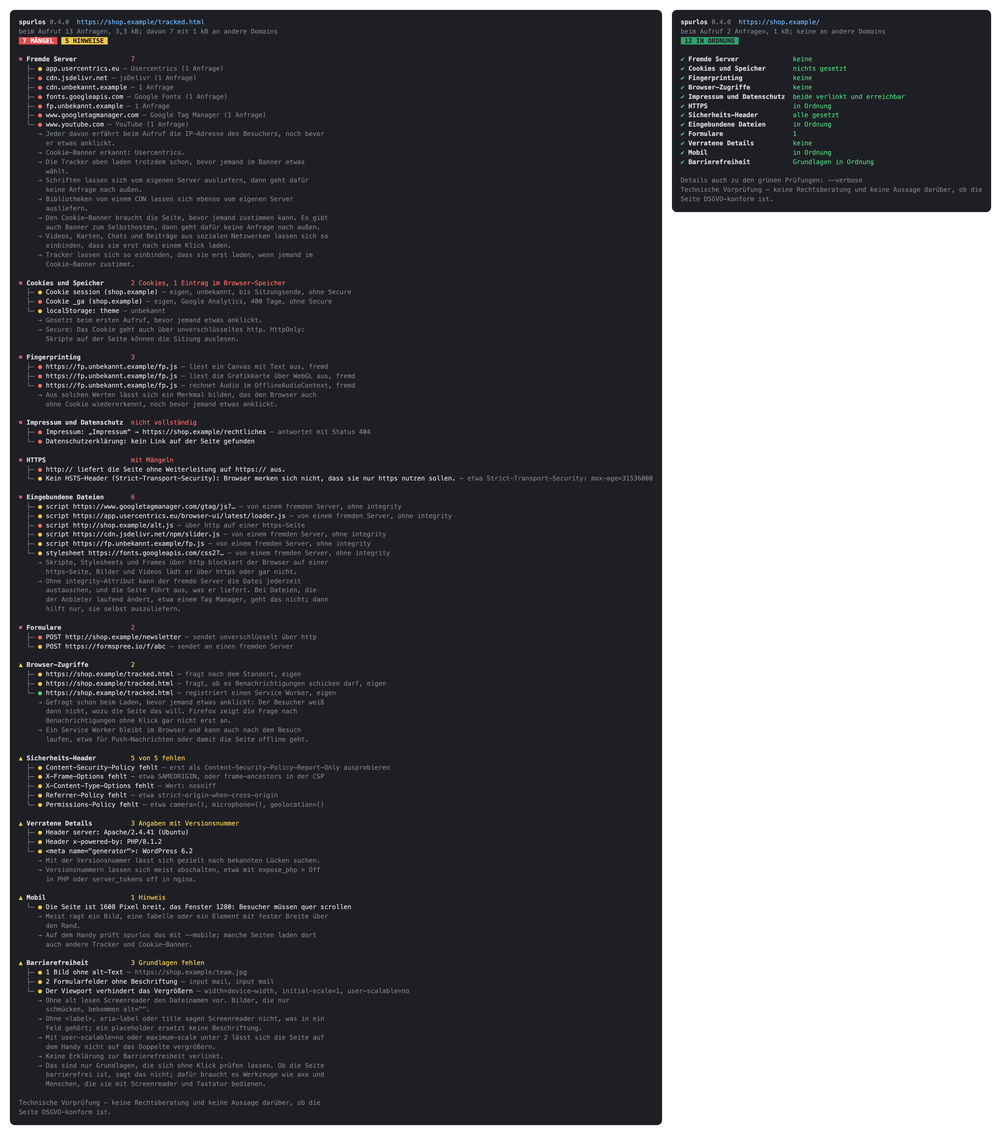
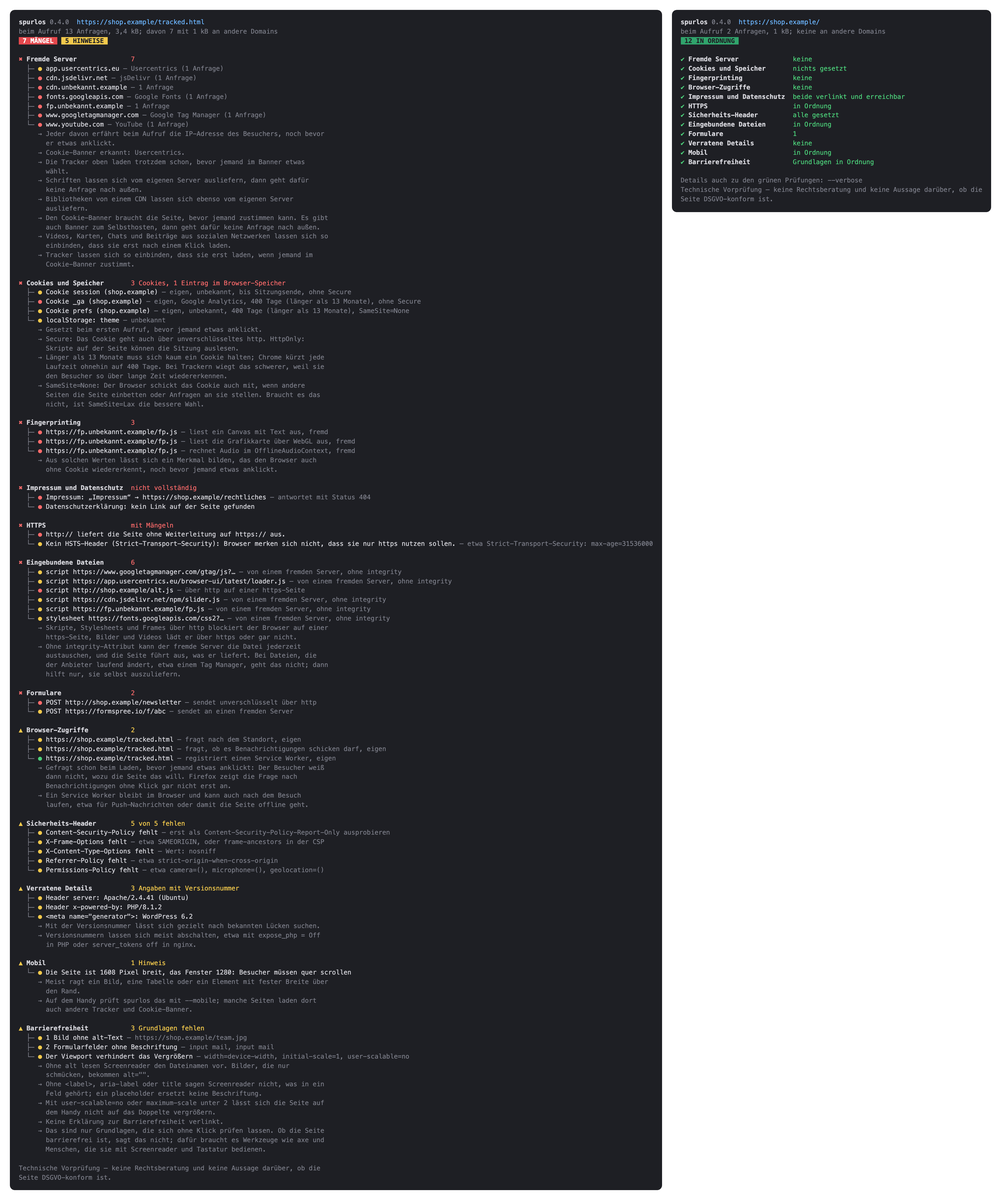
Cookies: länger als 13 Monate gültig ist mindestens gelb; SameSite=None bei eigenen Cookies im Bericht genannt, ohne die Ampel zu ändern; sameSite und long in --json

Changed region(s): [[0.0311, 0.0, 0.4042, 0.9965], [0.653, 0.0, 0.9951, 0.1868], [0.8707, 0.0623, 0.9018, 0.0934]]

diff --git a/examples/mit-maengeln.html b/examples/mit-maengeln.html
@@ -50,8 +50,8 @@ footer { margin-top: 28px; padding-top: 12px; border-top: 1px solid var(--line);
 <div class="top">
 <div>
 <h1>https://shop.example/tracked.html</h1>
-<p class="meta">geprüft am 22. November 2026 um 11:31 MEZ</p>
-<p class="meta">beim Aufruf 13 Anfragen, 3,3 kB; davon 7 mit 1 kB an andere Domains</p>
+<p class="meta">geprüft am 22. November 2026 um 11:35 MEZ</p>
+<p class="meta">beim Aufruf 13 Anfragen, 3,4 kB; davon 7 mit 1 kB an andere Domains</p>
 </div>
 <p class="brand"><svg class="logo light" xmlns="http://www.w3.org/2000/svg" viewBox="0 0 5255.92 1056" role="img" aria-label="spurlos"><title>spurlos</title><g transform="translate(-60.71 -70.67) scale(18.14)"><circle cx="28" cy="28" r="20" fill="none" stroke="#1e1f24" stroke-width="5.5"/><line x1="42.5" y1="42.5" x2="57" y2="57" stroke="#1e1f24" stroke-width="8" stroke-linecap="round"/><circle cx="17.5" cy="28" r="4.6" fill="#e5484d"/><circle cx="28" cy="28" r="4.6" fill="#e0a800"/><circle cx="38.5" cy="28" r="4.6" fill="#1f9d55"/></g><path transform="translate(1195.92 846)" fill="#1e1f24" d="M277 10Q209 10 158 -11.5Q107 -33 78.5 -71Q50 -109 50 -160L200 -160Q200 -136 221.5 -121.5Q243 -107 277 -107L321 -107Q362 -107 383.5 -122Q405 -137 405 -164Q405 -189 386 -202.5Q367 -216 327 -221L263 -229Q160 -242 113 -279Q66 -316 66 -392Q66 -472 121 -516Q176 -560 282 -560L320 -560Q421 -560 481 -516Q541 -472 541 -398L391 -398Q391 -418 371.5 -430.5Q352 -443 320 -443L282 -443Q245 -443 228 -430.5Q211 -418 211 -393Q211 -370 226.5 -358Q242 -346 276 -341L345 -332Q449 -319 499.5 -280Q550 -241 550 -164Q550 -80 492 -35Q434 10 321 10ZM646 180L646 -550L791 -550L791 -445L794 -445Q801 -491 830 -521Q869 -560 937 -560Q1020 -560 1070 -501.5Q1120 -443 1120 -345L1120 -205Q1120 -140 1097.5 -91.5Q1075 -43 1034 -16.5Q993 10 937 10Q869 10 830 -30Q801 -59 794 -105L791 -105L796 30L796 180ZM883 -120Q925 -120 947.5 -143.5Q970 -167 970 -210L970 -340Q970 -384 947.5 -407Q925 -430 883 -430Q842 -430 819 -406.5Q796 -383 796 -340L796 -210Q796 -167 819 -143.5Q842 -120 883 -120ZM1460 10Q1349 10 1286.5 -50Q1224 -110 1224 -214L1224 -550L1374 -550L1374 -215Q1374 -169 1396 -144.5Q1418 -120 1460 -120Q1501 -120 1523.5 -144.5Q1546 -169 1546 -215L1546 -550L1696 -550L1696 -214Q1696 -109 1633 -49.5Q1570 10 1460 10ZM1822 0L1822 -550L1962 -550L1962 -445L1964 -445Q1973 -488 1998 -515Q2039 -560 2118 -560Q2209 -560 2259.5 -505Q2310 -450 2310 -350L2310 -305L2150 -305L2150 -340Q2150 -385 2125.5 -410Q2101 -435 2060 -435Q2017 -435 1994.5 -410Q1972 -385 1972 -340L1972 0ZM2710 0Q2652 0 2608 -24.5Q2564 -49 2539.5 -93Q2515 -137 2515 -195L2515 -595L2345 -595L2345 -730L2665 -730L2665 -195Q2665 -168 2681.5 -151.5Q2698 -135 2725 -135L2885 -135L2885 0ZM3200 10Q3127 10 3073 -17.5Q3019 -45 2989.5 -94.5Q2960 -144 2960 -210L2960 -340Q2960 -406 2989.5 -455.5Q3019 -505 3073 -532.5Q3127 -560 3200 -560Q3274 -560 3327.5 -532.5Q3381 -505 3410.5 -455.5Q3440 -406 3440 -340L3440 -210Q3440 -144 3410.5 -94.5Q3381 -45 3327.5 -17.5Q3274 10 3200 10ZM3200 -120Q3244 -120 3267 -143.5Q3290 -167 3290 -210L3290 -340Q3290 -384 3267 -407Q3244 -430 3200 -430Q3157 -430 3133.5 -407Q3110 -384 3110 -340L3110 -210Q3110 -167 3133.5 -143.5Q3157 -120 3200 -120ZM3757 10Q3689 10 3638 -11.5Q3587 -33 3558.5 -71Q3530 -109 3530 -160L3680 -160Q3680 -136 3701.5 -121.5Q3723 -107 3757 -107L3801 -107Q3842 -107 3863.5 -122Q3885 -137 3885 -164Q3885 -189 3866 -202.5Q3847 -216 3807 -221L3743 -229Q3640 -242 3593 -279Q3546 -316 3546 -392Q3546 -472 3601 -516Q3656 -560 3762 -560L3800 -560Q3901 -560 3961 -516Q4021 -472 4021 -398L3871 -398Q3871 -418 3851.5 -430.5Q3832 -443 3800 -443L3762 -443Q3725 -443 3708 -430.5Q3691 -418 3691 -393Q3691 -370 3706.5 -358Q3722 -346 3756 -341L3825 -332Q3929 -319 3979.5 -280Q4030 -241 4030 -164Q4030 -80 3972 -35Q3914 10 3801 10Z"/></svg>
 <svg class="logo dark" xmlns="http://www.w3.org/2000/svg" viewBox="0 0 5255.92 1056" role="img" aria-label="spurlos"><title>spurlos</title><g transform="translate(-60.71 -70.67) scale(18.14)"><circle cx="28" cy="28" r="20" fill="none" stroke="#e9e9ee" stroke-width="5.5"/><line x1="42.5" y1="42.5" x2="57" y2="57" stroke="#e9e9ee" stroke-width="8" stroke-linecap="round"/><circle cx="17.5" cy="28" r="4.6" fill="#ff6b6b"/><circle cx="28" cy="28" r="4.6" fill="#f2c94c"/><circle cx="38.5" cy="28" r="4.6" fill="#4cd17a"/></g><path transform="translate(1195.92 846)" fill="#e9e9ee" d="M277 10Q209 10 158 -11.5Q107 -33 78.5 -71Q50 -109 50 -160L200 -160Q200 -136 221.5 -121.5Q243 -107 277 -107L321 -107Q362 -107 383.5 -122Q405 -137 405 -164Q405 -189 386 -202.5Q367 -216 327 -221L263 -229Q160 -242 113 -279Q66 -316 66 -392Q66 -472 121 -516Q176 -560 282 -560L320 -560Q421 -560 481 -516Q541 -472 541 -398L391 -398Q391 -418 371.5 -430.5Q352 -443 320 -443L282 -443Q245 -443 228 -430.5Q211 -418 211 -393Q211 -370 226.5 -358Q242 -346 276 -341L345 -332Q449 -319 499.5 -280Q550 -241 550 -164Q550 -80 492 -35Q434 10 321 10ZM646 180L646 -550L791 -550L791 -445L794 -445Q801 -491 830 -521Q869 -560 937 -560Q1020 -560 1070 -501.5Q1120 -443 1120 -345L1120 -205Q1120 -140 1097.5 -91.5Q1075 -43 1034 -16.5Q993 10 937 10Q869 10 830 -30Q801 -59 794 -105L791 -105L796 30L796 180ZM883 -120Q925 -120 947.5 -143.5Q970 -167 970 -210L970 -340Q970 -384 947.5 -407Q925 -430 883 -430Q842 -430 819 -406.5Q796 -383 796 -340L796 -210Q796 -167 819 -143.5Q842 -120 883 -120ZM1460 10Q1349 10 1286.5 -50Q1224 -110 1224 -214L1224 -550L1374 -550L1374 -215Q1374 -169 1396 -144.5Q1418 -120 1460 -120Q1501 -120 1523.5 -144.5Q1546 -169 1546 -215L1546 -550L1696 -550L1696 -214Q1696 -109 1633 -49.5Q1570 10 1460 10ZM1822 0L1822 -550L1962 -550L1962 -445L1964 -445Q1973 -488 1998 -515Q2039 -560 2118 -560Q2209 -560 2259.5 -505Q2310 -450 2310 -350L2310 -305L2150 -305L2150 -340Q2150 -385 2125.5 -410Q2101 -435 2060 -435Q2017 -435 1994.5 -410Q1972 -385 1972 -340L1972 0ZM2710 0Q2652 0 2608 -24.5Q2564 -49 2539.5 -93Q2515 -137 2515 -195L2515 -595L2345 -595L2345 -730L2665 -730L2665 -195Q2665 -168 2681.5 -151.5Q2698 -135 2725 -135L2885 -135L2885 0ZM3200 10Q3127 10 3073 -17.5Q3019 -45 2989.5 -94.5Q2960 -144 2960 -210L2960 -340Q2960 -406 2989.5 -455.5Q3019 -505 3073 -532.5Q3127 -560 3200 -560Q3274 -560 3327.5 -532.5Q3381 -505 3410.5 -455.5Q3440 -406 3440 -340L3440 -210Q3440 -144 3410.5 -94.5Q3381 -45 3327.5 -17.5Q3274 10 3200 10ZM3200 -120Q3244 -120 3267 -143.5Q3290 -167 3290 -210L3290 -340Q3290 -384 3267 -407Q3244 -430 3200 -430Q3157 -430 3133.5 -407Q3110 -384 3110 -340L3110 -210Q3110 -167 3133.5 -143.5Q3157 -120 3200 -120ZM3757 10Q3689 10 3638 -11.5Q3587 -33 3558.5 -71Q3530 -109 3530 -160L3680 -160Q3680 -136 3701.5 -121.5Q3723 -107 3757 -107L3801 -107Q3842 -107 3863.5 -122Q3885 -137 3885 -164Q3885 -189 3866 -202.5Q3847 -216 3807 -221L3743 -229Q3640 -242 3593 -279Q3546 -316 3546 -392Q3546 -472 3601 -516Q3656 -560 3762 -560L3800 -560Q3901 -560 3961 -516Q4021 -472 4021 -398L3871 -398Q3871 -418 3851.5 -430.5Q3832 -443 3800 -443L3762 -443Q3725 -443 3708 -430.5Q3691 -418 3691 -393Q3691 -370 3706.5 -358Q3722 -346 3756 -341L3825 -332Q3929 -319 3979.5 -280Q4030 -241 4030 -164Q4030 -80 3972 -35Q3914 10 3801 10Z"/></svg>
@@ -60,7 +60,7 @@ footer { margin-top: 28px; padding-top: 12px; border-top: 1px solid var(--line);
 <p class="summary"><span class="badge red">7 Mängel</span> <span class="badge yellow">5 Hinweise</span></p>
 </header>
 <details class="check red" open><summary class="head"><span class="mark">✖</span><span class="title">Fremde Server</span><span class="value">7</span></summary><ul><li class="yellow">app.usercentrics.eu<span class="detail"> – Usercentrics (1 Anfrage)</span></li><li class="red">cdn.jsdelivr.net<span class="detail"> – jsDelivr (1 Anfrage)</span></li><li class="red">cdn.unbekannt.example<span class="detail"> – 1 Anfrage</span></li><li class="red">fonts.googleapis.com<span class="detail"> – Google Fonts (1 Anfrage)</span></li><li class="red">fp.unbekannt.example<span class="detail"> – 1 Anfrage</span></li><li class="red">www.googletagmanager.com<span class="detail"> – Google Tag Manager (1 Anfrage)</span></li><li class="red">www.youtube.com<span class="detail"> – YouTube (1 Anfrage)</span></li></ul><p class="note">Jeder davon erfährt beim Aufruf die IP-Adresse des Besuchers, noch bevor er etwas anklickt.</p><p class="note">Cookie-Banner erkannt: Usercentrics.</p><p class="note">Die Tracker oben laden trotzdem schon, bevor jemand im Banner etwas wählt.</p><p class="note">Schriften lassen sich vom eigenen Server ausliefern, dann geht dafür keine Anfrage nach außen.</p><p class="note">Bibliotheken von einem CDN lassen sich ebenso vom eigenen Server ausliefern.</p><p class="note">Den Cookie-Banner braucht die Seite, bevor jemand zustimmen kann. Es gibt auch Banner zum Selbsthosten, dann geht dafür keine Anfrage nach außen.</p><p class="note">Videos, Karten, Chats und Beiträge aus sozialen Netzwerken lassen sich so einbinden, dass sie erst nach einem Klick laden.</p><p class="note">Tracker lassen sich so einbinden, dass sie erst laden, wenn jemand im Cookie-Banner zustimmt.</p></details>
-<details class="check red" open><summary class="head"><span class="mark">✖</span><span class="title">Cookies und Speicher</span><span class="value">2 Cookies, 1 Eintrag im Browser-Speicher</span></summary><ul><li class="yellow">Cookie session (shop.example)<span class="detail"> – eigen, unbekannt, bis Sitzungsende, ohne Secure</span></li><li class="red">Cookie _ga (shop.example)<span class="detail"> – eigen, Google Analytics, 400 Tage, ohne Secure</span></li><li class="yellow">localStorage: theme<span class="detail"> – unbekannt</span></li></ul><p class="note">Gesetzt beim ersten Aufruf, bevor jemand etwas anklickt.</p><p class="note">Secure: Das Cookie geht auch über unverschlüsseltes http. HttpOnly: Skripte auf der Seite können die Sitzung auslesen.</p></details>
+<details class="check red" open><summary class="head"><span class="mark">✖</span><span class="title">Cookies und Speicher</span><span class="value">3 Cookies, 1 Eintrag im Browser-Speicher</span></summary><ul><li class="yellow">Cookie session (shop.example)<span class="detail"> – eigen, unbekannt, bis Sitzungsende, ohne Secure</span></li><li class="red">Cookie _ga (shop.example)<span class="detail"> – eigen, Google Analytics, 400 Tage (länger als 13 Monate), ohne Secure</span></li><li class="yellow">Cookie prefs (shop.example)<span class="detail"> – eigen, unbekannt, 400 Tage (länger als 13 Monate), SameSite=None</span></li><li class="yellow">localStorage: theme<span class="detail"> – unbekannt</span></li></ul><p class="note">Gesetzt beim ersten Aufruf, bevor jemand etwas anklickt.</p><p class="note">Secure: Das Cookie geht auch über unverschlüsseltes http. HttpOnly: Skripte auf der Seite können die Sitzung auslesen.</p><p class="note">Länger als 13 Monate muss sich kaum ein Cookie halten; Chrome kürzt jede Laufzeit ohnehin auf 400 Tage. Bei Trackern wiegt das schwerer, weil sie den Besucher so über lange Zeit wiedererkennen.</p><p class="note">SameSite=None: Der Browser schickt das Cookie auch mit, wenn andere Seiten die Seite einbetten oder Anfragen an sie stellen. Braucht es das nicht, ist SameSite=Lax die bessere Wahl.</p></details>
 <details class="check red" open><summary class="head"><span class="mark">✖</span><span class="title">Fingerprinting</span><span class="value">3</span></summary><ul><li class="red">https://fp.unbekannt.example/fp.js<span class="detail"> – liest ein Canvas mit Text aus, fremd</span></li><li class="red">https://fp.unbekannt.example/fp.js<span class="detail"> – liest die Grafikkarte über WebGL aus, fremd</span></li><li class="red">https://fp.unbekannt.example/fp.js<span class="detail"> – rechnet Audio im OfflineAudioContext, fremd</span></li></ul><p class="note">Aus solchen Werten lässt sich ein Merkmal bilden, das den Browser auch ohne Cookie wiedererkennt, noch bevor jemand etwas anklickt.</p></details>
 <details class="check red" open><summary class="head"><span class="mark">✖</span><span class="title">Impressum und Datenschutz</span><span class="value">nicht vollständig</span></summary><ul><li class="red">Impressum: „Impressum“ → https://shop.example/rechtliches<span class="detail"> – antwortet mit Status 404</span></li><li class="red">Datenschutzerklärung: kein Link auf der Seite gefunden</li></ul></details>
 <details class="check red" open><summary class="head"><span class="mark">✖</span><span class="title">HTTPS</span><span class="value">mit Mängeln</span></summary><ul><li class="red">http:// liefert die Seite ohne Weiterleitung auf https:// aus.</li><li class="yellow">Kein HSTS-Header (Strict-Transport-Security): Browser merken sich nicht, dass sie nur https nutzen sollen.<span class="detail"> – etwa Strict-Transport-Security: max-age=31536000</span></li></ul></details>

diff --git a/src/checks.ts b/src/checks.ts
@@ -22,9 +22,9 @@ export type OwnReason = 'option' | 'certificate' | 'name' | 'platform'
 export type ThirdParty = { host: string; service: Service | undefined; requests: number; own?: OwnReason; preconnect?: true }
 /**
  * missing: attributes the cookie should have – Secure on an https page, HttpOnly for a session cookie ·
- * own: set on another site's domain that seems to belong to the page
+ * own: set on another site's domain that seems to belong to the page · long: it lives longer than 13 months
  */
-export type CookieFinding = Cookie & { thirdParty: boolean; service: Service | undefined; missing: ('Secure' | 'HttpOnly')[]; own?: OwnReason }
+export type CookieFinding = Cookie & { thirdParty: boolean; service: Service | undefined; missing: ('Secure' | 'HttpOnly')[]; own?: OwnReason; long?: true }
 export type StorageFinding = Scan['storage'][number] & { service: Service | undefined }
 /** a header or meta tag that names the software behind the page; version: it names its version too */
 export type Disclosure = { source: 'header' | 'meta'; name: string; value: string; version: boolean }
@@ -258,10 +258,14 @@ const ok = (v: Visit | undefined) => v !== undefined && 'status' in v && v.statu
 
 /**
  * A third-party cookie or a known tracker's is red, unless the other site seems to belong to the page; a known session,
- * security or consent cookie green, unless it lacks Secure or HttpOnly; any other yellow, a chat's or a payment provider's too.
+ * security or consent cookie green, unless it lacks Secure or HttpOnly or lives longer than 13 months; any other yellow,
+ * a chat's or a payment provider's too.
  */
 export const cookieLevel = (c: CookieFinding): Level =>
-  (c.thirdParty && !c.own) || isTracker(c.service) ? 'red' : isNecessary(c.service) && !c.missing.length ? 'green' : 'yellow'
+  (c.thirdParty && !c.own) || isTracker(c.service) ? 'red' : isNecessary(c.service) && !c.missing.length && !c.long ? 'green' : 'yellow'
+
+/** 13 months, in days: what a cookie should not outlive. Chrome cuts any lifetime to 400 days. */
+export const LONG_COOKIE_DAYS = 395
 /** a version number tells an attacker which known holes to try; the bare name of the software is only a hint */
 export const disclosureLevel = (d: Disclosure): Level => (d.version ? 'yellow' : 'green')
 /** what a framework keeps there to run is green; anything else an app stores wants a look */
@@ -298,9 +302,10 @@ export const accessLevel = (a: AccessFinding): Level =>
 /**
  * Cookies and storage present before any click. A third-party cookie or a known tracker's is red; known session,
  * security and consent cookies (Laravel's XSRF-TOKEN, PHPSESSID, Cloudflare's __cf_bm …) are green; any other own
- * cookie or storage entry is yellow, as it may be needed to run the site and wants a look.
+ * cookie or storage entry is yellow, as it may be needed to run the site and wants a look. One that lives longer than
+ * 13 months is yellow at least.
  */
-export function cookies(scan: Scan): Result {
+export function cookies(scan: Scan, now = Date.now()): Result {
   const own = ownSites(scan)
   const owner = ownership(scan)
   const https = isHttps(scan)
@@ -311,7 +316,8 @@ export function cookies(scan: Scan): Result {
     if (service?.httpOnly && !c.httpOnly) missing.push('HttpOnly')
     const thirdParty = !own.has(site(c.domain))
     const reason = thirdParty ? owner(c.domain) : undefined
-    return { ...c, thirdParty, service, missing, ...(reason ? { own: reason } : {}) }
+    const long = c.expires > 0 && c.expires * 1000 - now > LONG_COOKIE_DAYS * 86_400_000
+    return { ...c, thirdParty, service, missing, ...(reason ? { own: reason } : {}), ...(long ? { long: true as const } : {}) }
   })
   const storage = scan.storage.map(e => ({ ...e, service: serviceOfStorage(e.key) }))
   const level = worst([...found.map(cookieLevel), ...storage.map(storageLevel)])
@@ -606,7 +612,7 @@ export function mobile(scan: Scan): Result {
 }
 
 export function runChecks(scan: Scan, now = Date.now()): Result[] {
-  return [thirdParty(scan), cookies(scan), fingerprinting(scan), access(scan), legal(scan), https(scan, now), headers(scan), resources(scan), forms(scan), disclosure(scan), mobile(scan), accessibility(scan)]
+  return [thirdParty(scan), cookies(scan, now), fingerprinting(scan), access(scan), legal(scan), https(scan, now), headers(scan), resources(scan), forms(scan), disclosure(scan), mobile(scan), accessibility(scan)]
 }
 
 /**

diff --git a/examples/sauber.html b/examples/sauber.html
@@ -50,7 +50,7 @@ footer { margin-top: 28px; padding-top: 12px; border-top: 1px solid var(--line);
 <div class="top">
 <div>
 <h1>https://shop.example/</h1>
-<p class="meta">geprüft am 22. November 2026 um 11:31 MEZ</p>
+<p class="meta">geprüft am 22. November 2026 um 11:35 MEZ</p>
 <p class="meta">beim Aufruf 2 Anfragen, 1 kB; keine an andere Domains</p>
 </div>
 <p class="brand"><svg class="logo light" xmlns="http://www.w3.org/2000/svg" viewBox="0 0 5255.92 1056" role="img" aria-label="spurlos"><title>spurlos</title><g transform="translate(-60.71 -70.67) scale(18.14)"><circle cx="28" cy="28" r="20" fill="none" stroke="#1e1f24" stroke-width="5.5"/><line x1="42.5" y1="42.5" x2="57" y2="57" stroke="#1e1f24" stroke-width="8" stroke-linecap="round"/><circle cx="17.5" cy="28" r="4.6" fill="#e5484d"/><circle cx="28" cy="28" r="4.6" fill="#e0a800"/><circle cx="38.5" cy="28" r="4.6" fill="#1f9d55"/></g><path transform="translate(1195.92 846)" fill="#1e1f24" d="M277 10Q209 10 158 -11.5Q107 -33 78.5 -71Q50 -109 50 -160L200 -160Q200 -136 221.5 -121.5Q243 -107 277 -107L321 -107Q362 -107 383.5 -122Q405 -137 405 -164Q405 -189 386 -202.5Q367 -216 327 -221L263 -229Q160 -242 113 -279Q66 -316 66 -392Q66 -472 121 -516Q176 -560 282 -560L320 -560Q421 -560 481 -516Q541 -472 541 -398L391 -398Q391 -418 371.5 -430.5Q352 -443 320 -443L282 -443Q245 -443 228 -430.5Q211 -418 211 -393Q211 -370 226.5 -358Q242 -346 276 -341L345 -332Q449 -319 499.5 -280Q550 -241 550 -164Q550 -80 492 -35Q434 10 321 10ZM646 180L646 -550L791 -550L791 -445L794 -445Q801 -491 830 -521Q869 -560 937 -560Q1020 -560 1070 -501.5Q1120 -443 1120 -345L1120 -205Q1120 -140 1097.5 -91.5Q1075 -43 1034 -16.5Q993 10 937 10Q869 10 830 -30Q801 -59 794 -105L791 -105L796 30L796 180ZM883 -120Q925 -120 947.5 -143.5Q970 -167 970 -210L970 -340Q970 -384 947.5 -407Q925 -430 883 -430Q842 -430 819 -406.5Q796 -383 796 -340L796 -210Q796 -167 819 -143.5Q842 -120 883 -120ZM1460 10Q1349 10 1286.5 -50Q1224 -110 1224 -214L1224 -550L1374 -550L1374 -215Q1374 -169 1396 -144.5Q1418 -120 1460 -120Q1501 -120 1523.5 -144.5Q1546 -169 1546 -215L1546 -550L1696 -550L1696 -214Q1696 -109 1633 -49.5Q1570 10 1460 10ZM1822 0L1822 -550L1962 -550L1962 -445L1964 -445Q1973 -488 1998 -515Q2039 -560 2118 -560Q2209 -560 2259.5 -505Q2310 -450 2310 -350L2310 -305L2150 -305L2150 -340Q2150 -385 2125.5 -410Q2101 -435 2060 -435Q2017 -435 1994.5 -410Q1972 -385 1972 -340L1972 0ZM2710 0Q2652 0 2608 -24.5Q2564 -49 2539.5 -93Q2515 -137 2515 -195L2515 -595L2345 -595L2345 -730L2665 -730L2665 -195Q2665 -168 2681.5 -151.5Q2698 -135 2725 -135L2885 -135L2885 0ZM3200 10Q3127 10 3073 -17.5Q3019 -45 2989.5 -94.5Q2960 -144 2960 -210L2960 -340Q2960 -406 2989.5 -455.5Q3019 -505 3073 -532.5Q3127 -560 3200 -560Q3274 -560 3327.5 -532.5Q3381 -505 3410.5 -455.5Q3440 -406 3440 -340L3440 -210Q3440 -144 3410.5 -94.5Q3381 -45 3327.5 -17.5Q3274 10 3200 10ZM3200 -120Q3244 -120 3267 -143.5Q3290 -167 3290 -210L3290 -340Q3290 -384 3267 -407Q3244 -430 3200 -430Q3157 -430 3133.5 -407Q3110 -384 3110 -340L3110 -210Q3110 -167 3133.5 -143.5Q3157 -120 3200 -120ZM3757 10Q3689 10 3638 -11.5Q3587 -33 3558.5 -71Q3530 -109 3530 -160L3680 -160Q3680 -136 3701.5 -121.5Q3723 -107 3757 -107L3801 -107Q3842 -107 3863.5 -122Q3885 -137 3885 -164Q3885 -189 3866 -202.5Q3847 -216 3807 -221L3743 -229Q3640 -242 3593 -279Q3546 -316 3546 -392Q3546 -472 3601 -516Q3656 -560 3762 -560L3800 -560Q3901 -560 3961 -516Q4021 -472 4021 -398L3871 -398Q3871 -418 3851.5 -430.5Q3832 -443 3800 -443L3762 -443Q3725 -443 3708 -430.5Q3691 -418 3691 -393Q3691 -370 3706.5 -358Q3722 -346 3756 -341L3825 -332Q3929 -319 3979.5 -280Q4030 -241 4030 -164Q4030 -80 3972 -35Q3914 10 3801 10Z"/></svg>

diff --git a/src/report.ts b/src/report.ts
@@ -96,8 +96,10 @@ function unkeyed(t: Messages, r: Result, now: number): Section {
           const about = [
             c.own ? t.ownBy[c.own] : c.thirdParty ? t.cookieForeign : t.cookieOwn,
             c.service?.name ?? t.unknown,
-            lifetime(t, c.expires, now),
+            lifetime(t, c.expires, now) + (c.long ? ` (${t.cookieLong})` : ''),
             ...(c.missing.length ? [t.cookieMissing(c.missing)] : []),
+            // a third-party cookie needs it to be sent at all
+            ...(c.sameSite === 'None' && !c.thirdParty ? ['SameSite=None'] : []),
           ]
           return item(key.cookie(c), cookieLevel(c), `Cookie ${c.name} (${c.domain})`, about.join(', '))
         }),
@@ -106,7 +108,9 @@ function unkeyed(t: Messages, r: Result, now: number): Section {
       const unknown = r.storage.some(s => !s.service) || r.cookies.some(c => !c.service && !c.thirdParty)
       const note = unknown && r.level !== 'red' ? t.cookiesReview : r.level === 'green' ? t.cookiesNecessary : null
       const missing = r.cookies.some(c => c.missing.length) ? t.cookieMissingNote : null
-      return { value: t.cookies(r.cookies.length, r.storage.length), items, notes: [t.cookiesBefore, note, missing].filter(n => n !== null) }
+      const long = r.cookies.some(c => c.long) ? t.cookieLongNote : null
+      const sameSite = r.cookies.some(c => c.sameSite === 'None' && !c.thirdParty) ? t.cookieSameSiteNote : null
+      return { value: t.cookies(r.cookies.length, r.storage.length), items, notes: [t.cookiesBefore, note, missing, long, sameSite].filter(n => n !== null) }
     }
 
     case 'legal':

diff --git a/src/scan.ts b/src/scan.ts
@@ -60,7 +60,8 @@ export function browserAgent(chromeVersion: string, platform = process.platform,
  * server, which Playwright does not report as requests; url is then the server's address as the page gave it. bytes: what went over the wire for the answer, headers and encoded body; missing where none came
  */
 export type Request = { url: string; host: string; type: string; bytes?: number }
-export type Cookie = { name: string; domain: string; expires: number; secure: boolean; httpOnly: boolean }
+/** expires: in seconds since 1970, -1 for a session cookie; sameSite: missing in a scan of an older spurlos */
+export type Cookie = { name: string; domain: string; expires: number; secure: boolean; httpOnly: boolean; sameSite?: 'Strict' | 'Lax' | 'None' }
 export type StorageEntry = { area: 'localStorage' | 'sessionStorage'; key: string }
 export type Link = { text: string; href: string }
 export type Form = { action: string; method: string }
@@ -418,6 +419,7 @@ export async function scan(url: string, options: ScanOptions = {}): Promise<Scan
       expires: c.expires,
       secure: c.secure,
       httpOnly: c.httpOnly,
+      sameSite: c.sameSite,
     }))
     // what a visitor sees first, cookie banner included; a page that cannot be pictured still gets its report
     const screenshot = options.screenshot ? await page.screenshot({ type: 'jpeg', quality: 70 }).then(b => b.toString('base64'), () => undefined) : undefined

diff --git a/test/scan.test.ts b/test/scan.test.ts
@@ -95,7 +95,7 @@ describe('scan', { timeout: 30_000 }, () => {
 
     const cookies = pick(results, 'cookies')
     expect(cookies.level).toBe('red')
-    expect(cookies.cookies.map(c => c.name).sort()).toEqual(['_ga', 'session'])
+    expect(cookies.cookies.map(c => c.name).sort()).toEqual(['_ga', 'prefs', 'session'])
     expect(cookies.storage).toEqual([{ area: 'localStorage', key: 'theme', service: undefined }])
 
     const legal = pick(results, 'legal')
@@ -165,6 +165,8 @@ describe('scan', { timeout: 30_000 }, () => {
     expect(report).toContain('🟡 Cookie session (shop.example) – eigen, unbekannt, bis Sitzungsende, ohne Secure')
     expect(report).toContain('🟡 Header x-powered-by: PHP/8.1.2')
     expect(report).toContain('🟡 localStorage: theme – unbekannt')
+    // set for two years, cut by Chrome to 400 days, and sent along to other sites
+    expect(report).toContain('🟡 Cookie prefs (shop.example) – eigen, unbekannt, 400 Tage (länger als 13 Monate), SameSite=None')
     expect(report).toContain('Datenschutzerklärung: kein Link auf der Seite gefunden')
     expect(report).toContain('http://shop.example/newsletter – sendet unverschlüsselt über http')
     expect(report).toContain('Cookie-Banner erkannt: Usercentrics.')

diff --git a/test/checks.test.ts b/test/checks.test.ts
@@ -316,6 +316,18 @@ describe('cookies', () => {
     expect(cookies(base).level).toBe('green')
   })
 
+  test('a known cookie that lives longer than 13 months is yellow; SameSite=None changes no light', () => {
+    const now = Date.UTC(2026, 10, 22)
+    const days = (n: number) => now / 1000 + n * 86_400
+    const session = (expires: number, sameSite?: 'None') => ({ ...cookie('PHPSESSID'), expires, ...(sameSite ? { sameSite } : {}) })
+    expect(cookies({ ...base, cookies: [session(days(365), 'None')] }, now)).toMatchObject({ level: 'green', cookies: [{ sameSite: 'None' }] })
+    const long = cookies({ ...base, cookies: [session(days(400))] }, now)
+    expect(long).toMatchObject({ level: 'yellow', cookies: [{ long: true }] })
+    expect(findings(long)).toEqual([{ key: 'cookie PHPSESSID www.firma.de', level: 'yellow' }])
+    // a session cookie lives as long as the browser
+    expect(cookies({ ...base, cookies: [session(-1)] }, now).level).toBe('green')
+  })
+
   test('own cookies and storage without a known tracker are yellow', () => {
     expect(cookies({ ...base, cookies: [cookie('warenkorb')] }).level).toBe('yellow')
     expect(cookies({ ...base, storage: [{ area: 'localStorage', key: 'theme' }] }).level).toBe('yellow')

diff --git a/src/lang/de.ts b/src/lang/de.ts
@@ -149,6 +149,9 @@ Hilft dir spurlos? https://ko-fi.com/mmohrx`,
   cookiesReview: 'Keine bekannten Tracker. Prüfe bei den gelb markierten Einträgen, ob sie technisch nötig sind.',
   unknown: 'unbekannt',
   cookieMissing: (attrs: string[]) => `ohne ${attrs.join(' und ')}`,
+  cookieLong: 'länger als 13 Monate',
+  cookieLongNote: 'Länger als 13 Monate muss sich kaum ein Cookie halten; Chrome kürzt jede Laufzeit ohnehin auf 400 Tage. Bei Trackern wiegt das schwerer, weil sie den Besucher so über lange Zeit wiedererkennen.',
+  cookieSameSiteNote: 'SameSite=None: Der Browser schickt das Cookie auch mit, wenn andere Seiten die Seite einbetten oder Anfragen an sie stellen. Braucht es das nicht, ist SameSite=Lax die bessere Wahl.',
   cookieMissingNote: 'Secure: Das Cookie geht auch über unverschlüsseltes http. HttpOnly: Skripte auf der Seite können die Sitzung auslesen.',
   disclosureNone: 'Weder Header noch Seite nennen die Software dahinter.',
   disclosure: (versions: number) => (versions ? `${plural(versions, 'Angabe', 'Angaben')} mit Versionsnummer` : 'nur Namen, keine Versionen'),

diff --git a/src/lang/en.ts b/src/lang/en.ts
@@ -146,6 +146,9 @@ Does spurlos help you? https://ko-fi.com/mmohrx`,
   cookiesReview: 'No known trackers. For the entries marked yellow, check whether they are technically necessary.',
   unknown: 'unknown',
   cookieMissing: attrs => `without ${attrs.join(' and ')}`,
+  cookieLong: 'longer than 13 months',
+  cookieLongNote: 'Hardly any cookie needs to last longer than 13 months; Chrome cuts every lifetime to 400 days anyway. For trackers it weighs more, as they recognize the visitor over a long time that way.',
+  cookieSameSiteNote: 'SameSite=None: the browser sends the cookie along even when other sites embed the site or send requests to it. If it does not need that, SameSite=Lax is the better choice.',
   cookieMissingNote: 'Secure: the cookie also travels over unencrypted http. HttpOnly: scripts on the page can read the session.',
   disclosureNone: 'Neither headers nor the page name the software behind it.',
   disclosure: versions => (versions ? `${plural(versions, 'entry', 'entries')} with a version number` : 'names only, no versions'),

diff --git a/test/sites/tracker.js b/test/sites/tracker.js
@@ -1,2 +1,3 @@
 document.cookie = '_ga=GA1.1.123.456; max-age=63072000; path=/'
+document.cookie = 'prefs=compact; max-age=63072000; path=/; SameSite=None; Secure'
 localStorage.setItem('theme', 'dark')

diff --git a/README.md b/README.md
@@ -87,7 +87,7 @@ spurlos selbst meldet nichts nach Hause: keine Telemetrie, keine Statistik. Ange
 | Prüfung | 🟢 | 🟡 | 🔴 |
 |---|---|---|---|
 | Fremde Server | keine | nur Cookie-Banner und Captchas (Kategorien `consent` und `captcha`): Die Seite braucht sie, sie erfahren die IP-Adresse trotzdem; dazu Server, die zur Seite zu gehören scheinen (`--own`, Zertifikat, Name), und die der Plattform, auf der sie läuft (Wix, Shopify, Squarespace, Webflow, IONOS MyWebsite) | mindestens eine Anfrage an eine andere Domain, die zu keinem Cookie-Banner, keinem Captcha und nicht zur Seite gehört |
-| Cookies und Speicher | nichts gesetzt, oder nur bekannte Sitzungs- und Sicherheits-Cookies und solche, in denen der Cookie-Banner die Wahl speichert | eigene Cookies oder Einträge, die spurlos nicht kennt oder die zu einem Dienst wie einem Chat oder Zahlungsanbieter gehören; ein Cookie ohne `Secure` auf einer https-Seite; ein Sitzungs-Cookie ohne `HttpOnly` | Cookie einer fremden Domain, die nicht zur Seite zu gehören scheint, oder eines bekannten Trackers |
+| Cookies und Speicher | nichts gesetzt, oder nur bekannte Sitzungs- und Sicherheits-Cookies und solche, in denen der Cookie-Banner die Wahl speichert | eigene Cookies oder Einträge, die spurlos nicht kennt oder die zu einem Dienst wie einem Chat oder Zahlungsanbieter gehören; ein Cookie ohne `Secure` auf einer https-Seite; ein Sitzungs-Cookie ohne `HttpOnly`; ein Cookie, das länger als 13 Monate gilt | Cookie einer fremden Domain, die nicht zur Seite zu gehören scheint, oder eines bekannten Trackers |
 | Fingerprinting | kein Skript liest Canvas, Grafikkarte, Audio oder über WebRTC die IP-Adresse aus | ein eigenes Skript, ein Captcha oder ein Server, der zur Seite zu gehören scheint, liest sie aus | ein Skript einer fremden Domain liest sie aus |
 | Browser-Zugriffe | kein Skript fragt nach Berechtigungen, oder nur ein Service Worker | ein Skript fragt beim Laden nach Benachrichtigungen oder Push; ein eigenes Skript oder eines von einem Server, der zur Seite zu gehören scheint, nach Standort, Kamera oder Mikrofon | ein Skript einer fremden Domain fragt nach Standort, Kamera oder Mikrofon |
 | Impressum und Datenschutz | beide verlinkt und erreichbar | eine Seite weist spurlos ab (`401`, `403`, `429`) oder antwortet nicht vor dem Timeout, oft ein Bot-Schutz | ein Link fehlt oder die Seite antwortet mit einem anderen Fehler, etwa `404`; ein PDF zählt als erreichbar |

diff --git a/README.en.md b/README.en.md
@@ -87,7 +87,7 @@ spurlos itself does not phone home: no telemetry, no statistics. It requests onl
 | Check | 🟢 | 🟡 | 🔴 |
 |---|---|---|---|
 | Third-party servers | none | only cookie banners and captchas (categories `consent` and `captcha`): the site needs them, they still learn the IP address; and servers that seem to belong to the site (`--own`, certificate, name), and those of the platform it runs on (Wix, Shopify, Squarespace, Webflow, IONOS MyWebsite) | at least one request to another domain that belongs to no cookie banner, no captcha and not to the site |
-| Cookies and storage | nothing set, or only known session and security cookies and those in which the cookie banner keeps the choice | first-party cookies or entries spurlos does not know or that belong to a service such as a chat or payment provider; a cookie without `Secure` on an https page; a session cookie without `HttpOnly` | a cookie of another domain that does not seem to belong to the site, or one of a known tracker |
+| Cookies and storage | nothing set, or only known session and security cookies and those in which the cookie banner keeps the choice | first-party cookies or entries spurlos does not know or that belong to a service such as a chat or payment provider; a cookie without `Secure` on an https page; a session cookie without `HttpOnly`; a cookie that lasts longer than 13 months | a cookie of another domain that does not seem to belong to the site, or one of a known tracker |
 | Fingerprinting | no script reads out canvas, graphics card, audio or the IP address via WebRTC | a script of the site itself, a captcha or a server that seems to belong to the site reads them out | a script of another domain reads them out |
 | Browser access | no script asks for permissions, or only a service worker | a script asks for notifications or push on load; a script of the site itself (or of a server that seems to belong to it) for location, camera or microphone | a script of another domain asks for location, camera or microphone |
 | Legal notice and privacy policy | both linked and reachable | a page turns spurlos away (`401`, `403`, `429`) or does not answer before the timeout, often a bot check | a link is missing or the page answers with another error, such as `404`; a PDF counts as reachable |
